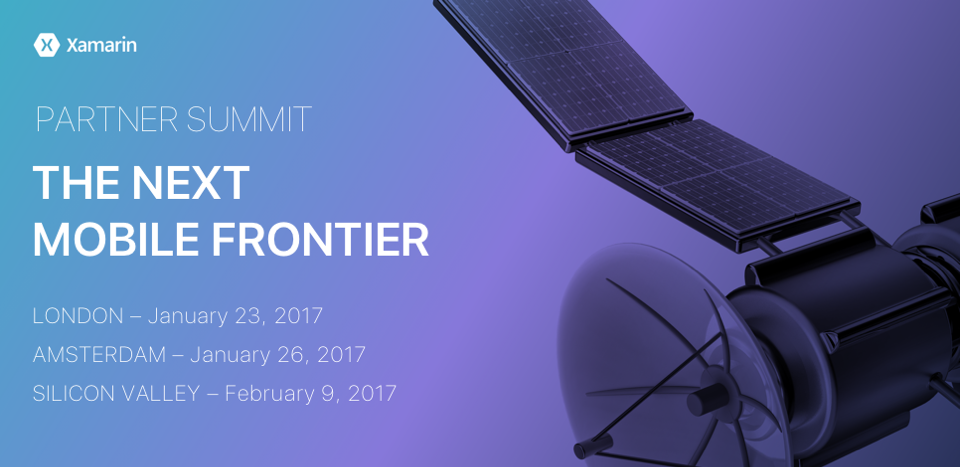
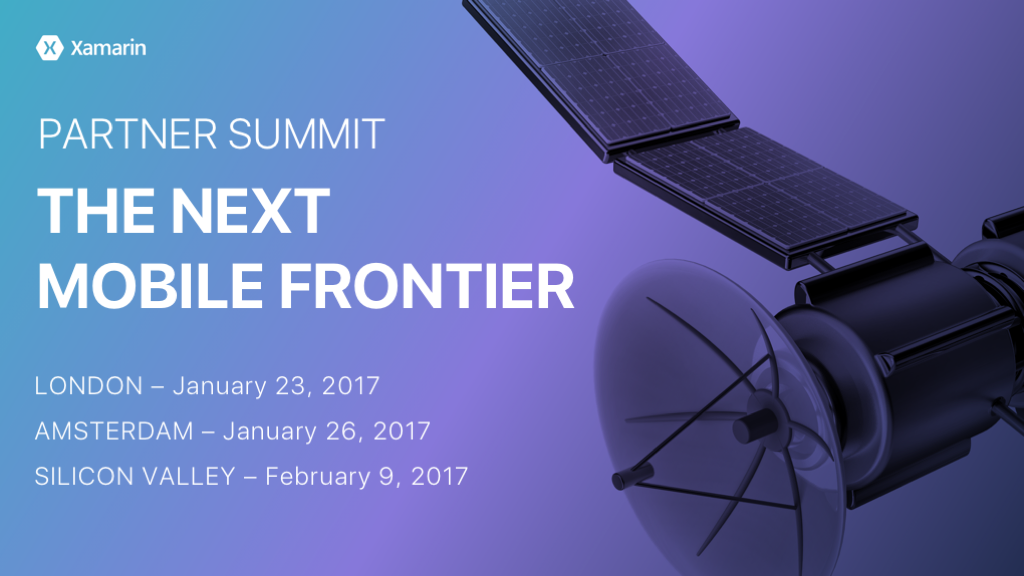
header

diff --git a/README.md b/README.md
@@ -1,4 +1,4 @@
-![Screenshots](/Images/header.png?raw=true "The Next Mobile Frontier")
+![Screenshots](/Images/header.jpg?raw=true "The Next Mobile Frontier")
 
 This repo contains the demos, slides and other resources from the technical sessions at the three [2017 Xamarin Partner Summits][0].
 
